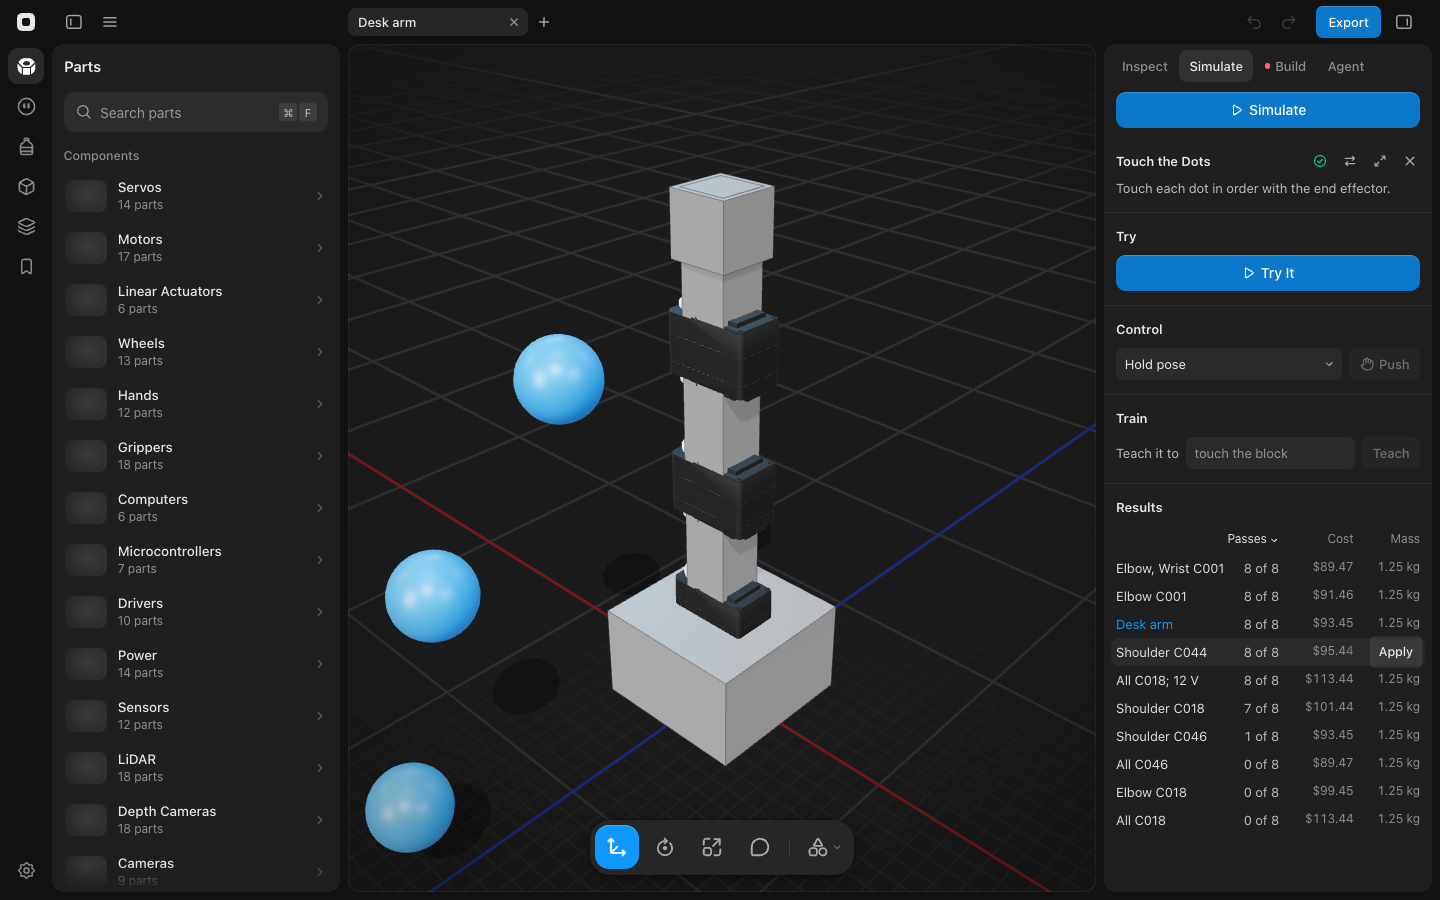
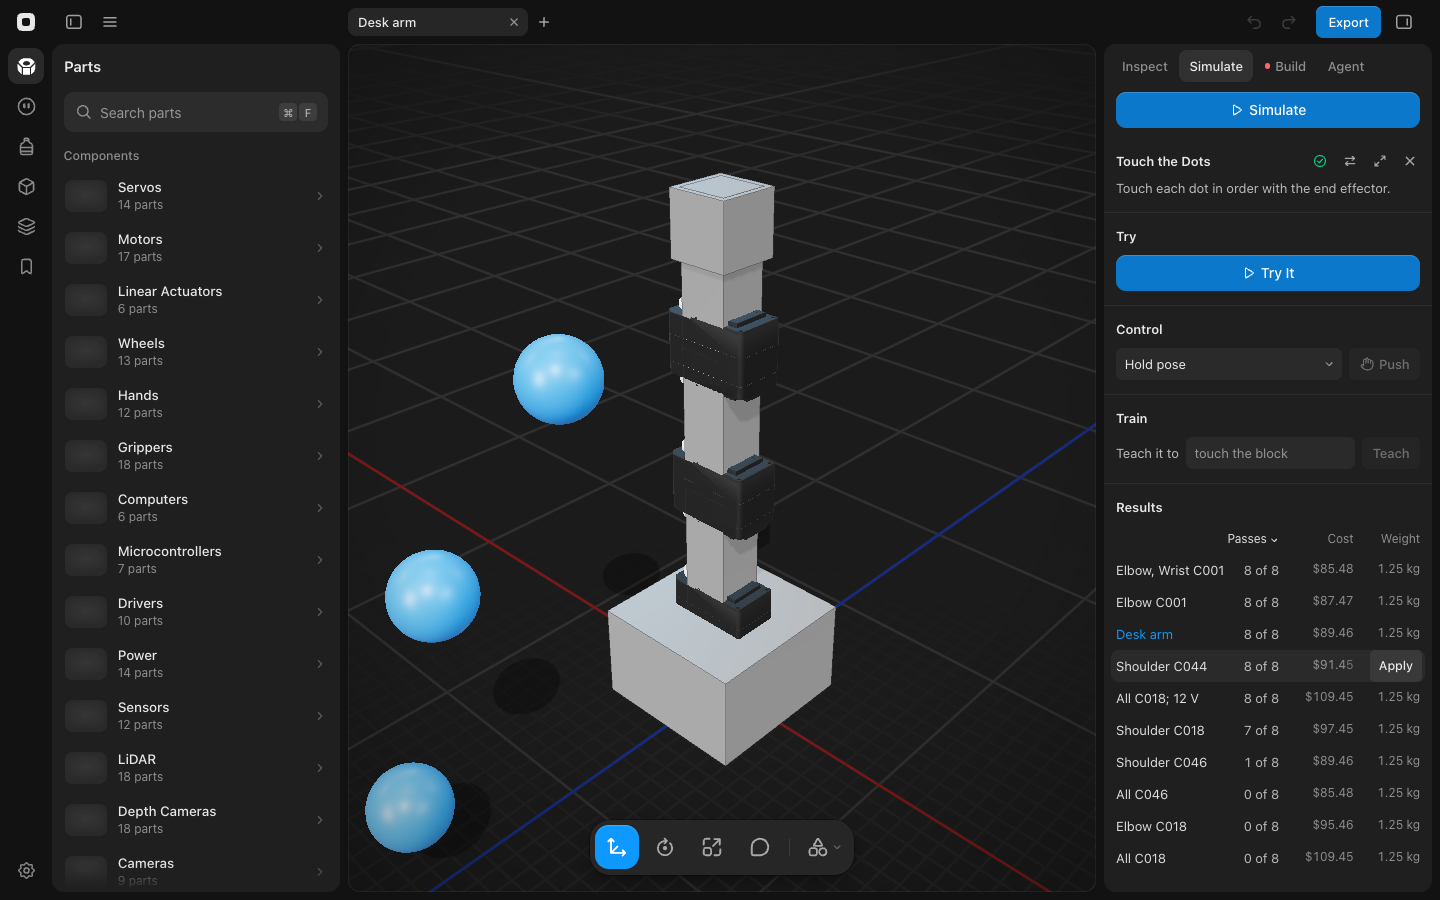
Fix the remaining weight docs and recapture Explore's Results
Review found three blockers. The Layout guide and the Key specs note still
gave a servo's strength as "Up to 2 kg at 10 cm". The weight helper now
shows it as "Up to 1.95 kg at 10 cm", so both say that now. The Explore
help article's screenshots still showed a Mass column header. They are
recaptured with Weight, and the article's last two "mass" mentions now say
weight.

Also fixed two minor findings. The exported BOM's Printed parts table now
shows each part's filament through weight(), the same as Print mode. The
copy guide now describes the hundredths case under 0.05 g.

The eight help articles that cover the other edited files were read against
the new code and still hold, so they are unchanged.

diff --git a/src/utils/bomFormat.ts b/src/utils/bomFormat.ts
@@ -2,6 +2,7 @@ import { BOM_CATEGORIES, Bom, BomLine, FILAMENT_MARGIN, PriceStatus, STALE_DAYS,
 import { currencyNote, type Money, scaledEntry } from './currency';
 import { currentMoney } from './currencyStore';
 import { plural } from '../../electron/plural.mjs';
+import { weight } from './weight';
 
 const STATUS_LABEL: Record<PriceStatus, string> = { checked: 'Checked', stale: 'Stale', unchecked: 'Not checked' };
 const LINK_TYPE: Record<BomLine['urlKind'], string> = { product: 'Listing', search: 'Search', none: '' };
@@ -119,7 +120,7 @@ function markdownPrinted(bom: Bom): string[] {
     '| Part | Material | Size (mm) | Filament |',
     '|---|---|---|---:|',
     ...bom.printed.map(
-      (p) => `| ${p.name} | ${p.material} | ${p.size.map((v) => v.toFixed(0)).join(' × ')} | ${p.grams.toFixed(0)} g |`,
+      (p) => `| ${p.name} | ${p.material} | ${p.size.map((v) => v.toFixed(0)).join(' × ')} | ${weight(p.grams)} |`,
     ),
     '',
     `Filament estimates assume 2 walls, 4 top/bottom layers and the project’s infill; spools include estimated supports and a ${Math.round(FILAMENT_MARGIN * 100)}% margin for brims and reprints.`,

diff --git a/docs/guide/copy.md b/docs/guide/copy.md
@@ -50,7 +50,7 @@ Every word in the UI is product copy. Write it to the standard below, and check 
     - Use numerals, not words (“3 parts”), and pluralize correctly (“1 part”, “2 parts”). Every count in the app and the agent's text goes through `plural` (`electron/plural.mjs`, shared by the renderer, the main process and the MCP server: `plural(n, 'part')`, `plural(n, 'mesh', 'meshes')`), never a hand-written `n === 1` ternary or a bare `${n} parts`. The CAD kernel reads only its own folder, so its counts use drawing notation (“4× through hole”). Word a count so no verb has to agree with it: “No price on 2 lines”, not “2 lines have no price”.
     - Times and dates go through `src/utils/timeAgo.ts`, never a raw ISO date or a hand-built format. A list column uses `timeAgo` (“now”, “5m”, “2h”, “3d”, then “Nov 4”); a phrase uses `agoPhrase` (“Made just now”, “5m ago”); a date uses `dayLabel` (“Checked Nov 4”). Each adds the year only when it isn't this year (“Nov 4, 2025”). A printed document, read long after it's made, uses `fullDate` (“November 13, 2026”), which always has the year. A clock time uses `clockTime` (“Fault at 2:32 PM”), the same on every machine. Text a date can't be read from (an agent's price date before it was checked) shows as written. Date groups (Today, Yesterday, Previous 7 days, then the month) come from `groupByDate`.
     - Durations in the app and the agent's text go through `src/utils/duration.ts`, never a hand-built `${n} s`. A moment in a run or a running clock uses `runClock`, which keeps one decimal so it holds its width (“Fell at 2.0 s”); so does a span shown beside one, so the two match (a try's length, “0.4 s at limit”, an animation's length beside its scrub). A span uses `duration`: tenths of a second under a minute (“0.5 s”, “45 s”), then its two largest units with the second padded (“1 min 05 s”, “1 h 05 min”). An estimate rounds to the minute and never shows zero (`duration(s, 'min')`: “≈ 1 h 05 min”, “About 3 min left”). A value someone set shows as written, in seconds: a task contract's windows, a keyframe's time, a try's horizon and the limits that check them (“A try lasts 0.5 to 60 s.”), and a Routine step's wait, timeout and cooldown (“Wait 0.25 s”, then `duration` from a minute: “Walk for 5 min”). A span under a tenth of a second shows hundredths, so a positive span never reads “0 s” (“above stall for 0.03 s”). Sub-second engineering timings checked against a limit in milliseconds (a scenario step's elapsed time, a control gap) stay in whole ms, the unit their limit is written in.
-    - A weight is labeled Weight in the app, never Mass (center of mass stays), and reads through `weight` (`src/utils/weight.ts`), never a hand-built `${n} g` or `${kg.toFixed(2)} kg`: tenths of a gram under 10 g, so a positive weight never reads “0 g” (“0.4 g”), whole grams to a kilogram (“85 g”), then kilograms to three figures (“1.25 kg”, “35.2 kg”, “120 kg”). That holds for the Weight check, Explore and Compare, an object's card, plates and printed parts in Print mode, a servo's strength, and the agent's reports. A value someone wrote shows as written: a catalog part's or supply's weight, a payload set on a skill, and filament to buy in the bill of materials.
+    - A weight is labeled Weight in the app, never Mass (center of mass stays), and reads through `weight` (`src/utils/weight.ts`), never a hand-built `${n} g` or `${kg.toFixed(2)} kg`: tenths of a gram under 10 g (“0.4 g”) and hundredths under 0.05 g, so a positive weight never reads “0 g” (“0.02 g”), whole grams to a kilogram (“85 g”), then kilograms to three figures (“1.25 kg”, “35.2 kg”, “120 kg”). That holds for the Weight check, Explore and Compare, an object's card, plates and printed parts in Print mode, a servo's strength, and the agent's reports. A value someone wrote shows as written: a catalog part's or supply's weight, a payload set on a skill, and filament to buy in the bill of materials.
 16. **No middle dots (`·`) between items, and no other separator glyph in their place** (a pipe, `•`, `—`). Separate facts with layout instead:
     - a meta line of facts: `MetaLine` (items 12px apart; `SectionHeader` and the part page and hover card subtitles take a list and use it);
     - a spec value with several facts: a list (`SpecValue`), rendered one per line by `SpecText`;

diff --git a/docs/guide/layout.md b/docs/guide/layout.md
@@ -14,7 +14,7 @@ Part of the Basecase guide. [AGENTS.md](../../AGENTS.md) holds the rules every c
       - **Home:** Browse rows in two sections: Components (one row per non-empty `ComponentGroup`) and Hardware (one row per `HARDWARE_FAMILIES` family). Parts lists and searches only real components and hardware: basic shapes live in the toolbar's Shapes menu (A), and holes, slots and pivot axes in ⌘K.
       - **Added by Agent:** parts the agent sourced (§8a) join the panel the moment they're saved, with no reload (`useSourcedItems`, `partCategories`). Once any exist, Components opens with an Added by Agent row. Its view shows them as tiles with the maker as the meta line, then a Needs a 3D model list of parts without a mesh: those can't be placed, so a row opens the product page. They also appear in their own group and in search, where the meta line says “Added by Agent” in place of the maker; part pages and hover cards name the maker too. Materials and equipment have no geometry, so they stay in the BOM.
       - **Category:** 2-column grid of real 3D thumbnails (`usePartThumbnail`, cached per exact variant). Hover opens a `HoverCard` beside the sidebar (`CatalogDetails`): a preview of the page in the page's own words, with the hero (no badge), the name, the maker line and the description, then the same Key specs (Size across the card, the rest below), then Buy on Amazon with Datasheet and Product page icons. Click opens the page; + adds; drag places it. The + shows only on hover or focus and takes no clicks while hidden, so a click anywhere on the tile opens the page.
-      - **Part page:** calm first, details on request. A draggable spotlight hero (no badge), the name (17px semibold), the maker on one muted line and the description; then **Key specs**: at most 3 plain-language rows for newcomers (`keySpecs` in `utils/keySpecs.ts`: Size rounded, Weight, and one headline per group, e.g. a servo's Strength as “Up to 2 kg at 10 cm”, a gripper's Can hold, a LiDAR's Range); **All specs**, collapsed: the exact datasheet values as label/value rows; **Details**, collapsed: part number, Mounting, 3D model source, Datasheet and Product Page; then Goes with. Amazon is a cart icon in the footer beside Add. The hardware page shares the hero and title.
+      - **Part page:** calm first, details on request. A draggable spotlight hero (no badge), the name (17px semibold), the maker on one muted line and the description; then **Key specs**: at most 3 plain-language rows for newcomers (`keySpecs` in `utils/keySpecs.ts`: Size rounded, Weight, and one headline per group, e.g. a servo's Strength as “Up to 1.95 kg at 10 cm”, a gripper's Can hold, a LiDAR's Range); **All specs**, collapsed: the exact datasheet values as label/value rows; **Details**, collapsed: part number, Mounting, 3D model source, Datasheet and Product Page; then Goes with. Amazon is a cart icon in the footer beside Add. The hardware page shares the hero and title.
       - **Footer:** part and hardware pages end in a bar below the scroll area, so the scroll fade never dims it: Add fills the bar, with the Amazon cart icon beside it. It doesn't repeat the name; the title and the configurator above already say what Add places.
       - **Scroll fade:** the list fades 28px at an edge only while there's more to scroll past it (`useScrollFade`, same look as the agent feed).
       - **Hardware page:** a live preview of the exact spec, the title, then the family's `HardwareConfigurator` and `HardwareSpecs` as hairline sections, and the footer with Add and Find on Amazon. Each family remembers its last spec.

diff --git a/site/content/help/explore-servo-versions-on-a-case.md b/site/content/help/explore-servo-versions-on-a-case.md
@@ -51,9 +51,9 @@ You can also press [[⌘K]] and choose **Explore**. Ask the agent which servo to
 
 Each row is one design. Its name lists the joints whose servo changed and the version they got, such as Shoulder C044, and the supply voltage when it changed. The row named after your scene is the design as it was when you clicked **Explore**. The row that matches the scene now is blue.
 
-Every design runs the Case 8 times. Each run changes friction, weight, servo strength and servo delay a little. Each servo is rated at the row's supply voltage, as the **Servo torque** check rates it. Cost is the **Bill of materials** estimate, and mass is the **Weight** check's.
+Every design runs the Case 8 times. Each run changes friction, weight, servo strength and servo delay a little. Each servo is rated at the row's supply voltage, as the **Servo torque** check rates it. Cost is the **Bill of materials** estimate, and weight is the **Weight** check's.
 
-Explore tries the design as it is first, then each version on every joint at once, then one joint at a time, then two. It stops at 64 designs. A robot powered by a battery keeps the battery's voltage. Versions of one servo weigh the same in the catalog, so mass doesn't change between rows.
+Explore tries the design as it is first, then each version on every joint at once, then one joint at a time, then two. It stops at 64 designs. A robot powered by a battery keeps the battery's voltage. Versions of one servo weigh the same in the catalog, so weight doesn't change between rows.
 
 **Apply** swaps the servos, and the tether's voltage when it changed. The bill of materials, Checks and plates update. Press ⌘Z to undo the whole swap in one step.
 

diff --git a/docs/notes/core.md b/docs/notes/core.md
@@ -252,7 +252,7 @@ Knowledge preserved from code comments before they were removed. AGENTS.md cover
 - Silhouette: photo segmented by flood-filling a plain background from the border; the model render is white-on-black. Both reduce to span width per tenth of height as a fraction of height (scale-free).
 - Image tracing: radial outer boundary in 48 angular sectors around the centroid gives a watertight, self-intersection-free contour; Ramer–Douglas–Peucker simplification; background from the corners; flood-fill exterior from the border, remaining unvisited 0-pixels inside the bbox are holes (up to 6); nearly empty/full-frame photos fall back to a chamfered octagon plate; image Y is flipped.
 - SVG: Y is inverted (SVG Y points down); shapes are normalized into [−0.5, 0.5] of the whole SVG bounding box so multi-path SVGs stay aligned; `fill="none"` paths are skipped unless they are the only paths (stroked-only fallback).
-- Key specs: torque shown as the load held on a 10 cm arm (19.5 kg·cm → "Up to 2 kg at 10 cm"); the torque regex skips constants like "Kt 0.055 N·m/A".
+- Key specs: torque shown as the load held on a 10 cm arm (19.5 kg·cm → "Up to 1.95 kg at 10 cm", read through `weight`); the torque regex skips constants like "Kt 0.055 N·m/A".
 - Reference images are downscaled to JPEG (quality 0.86 default) to keep agent payloads small. Claude reads images at up to 1568 px; larger only costs time.
 
 ## utils/evidenceFiles, platformBridge, misc
